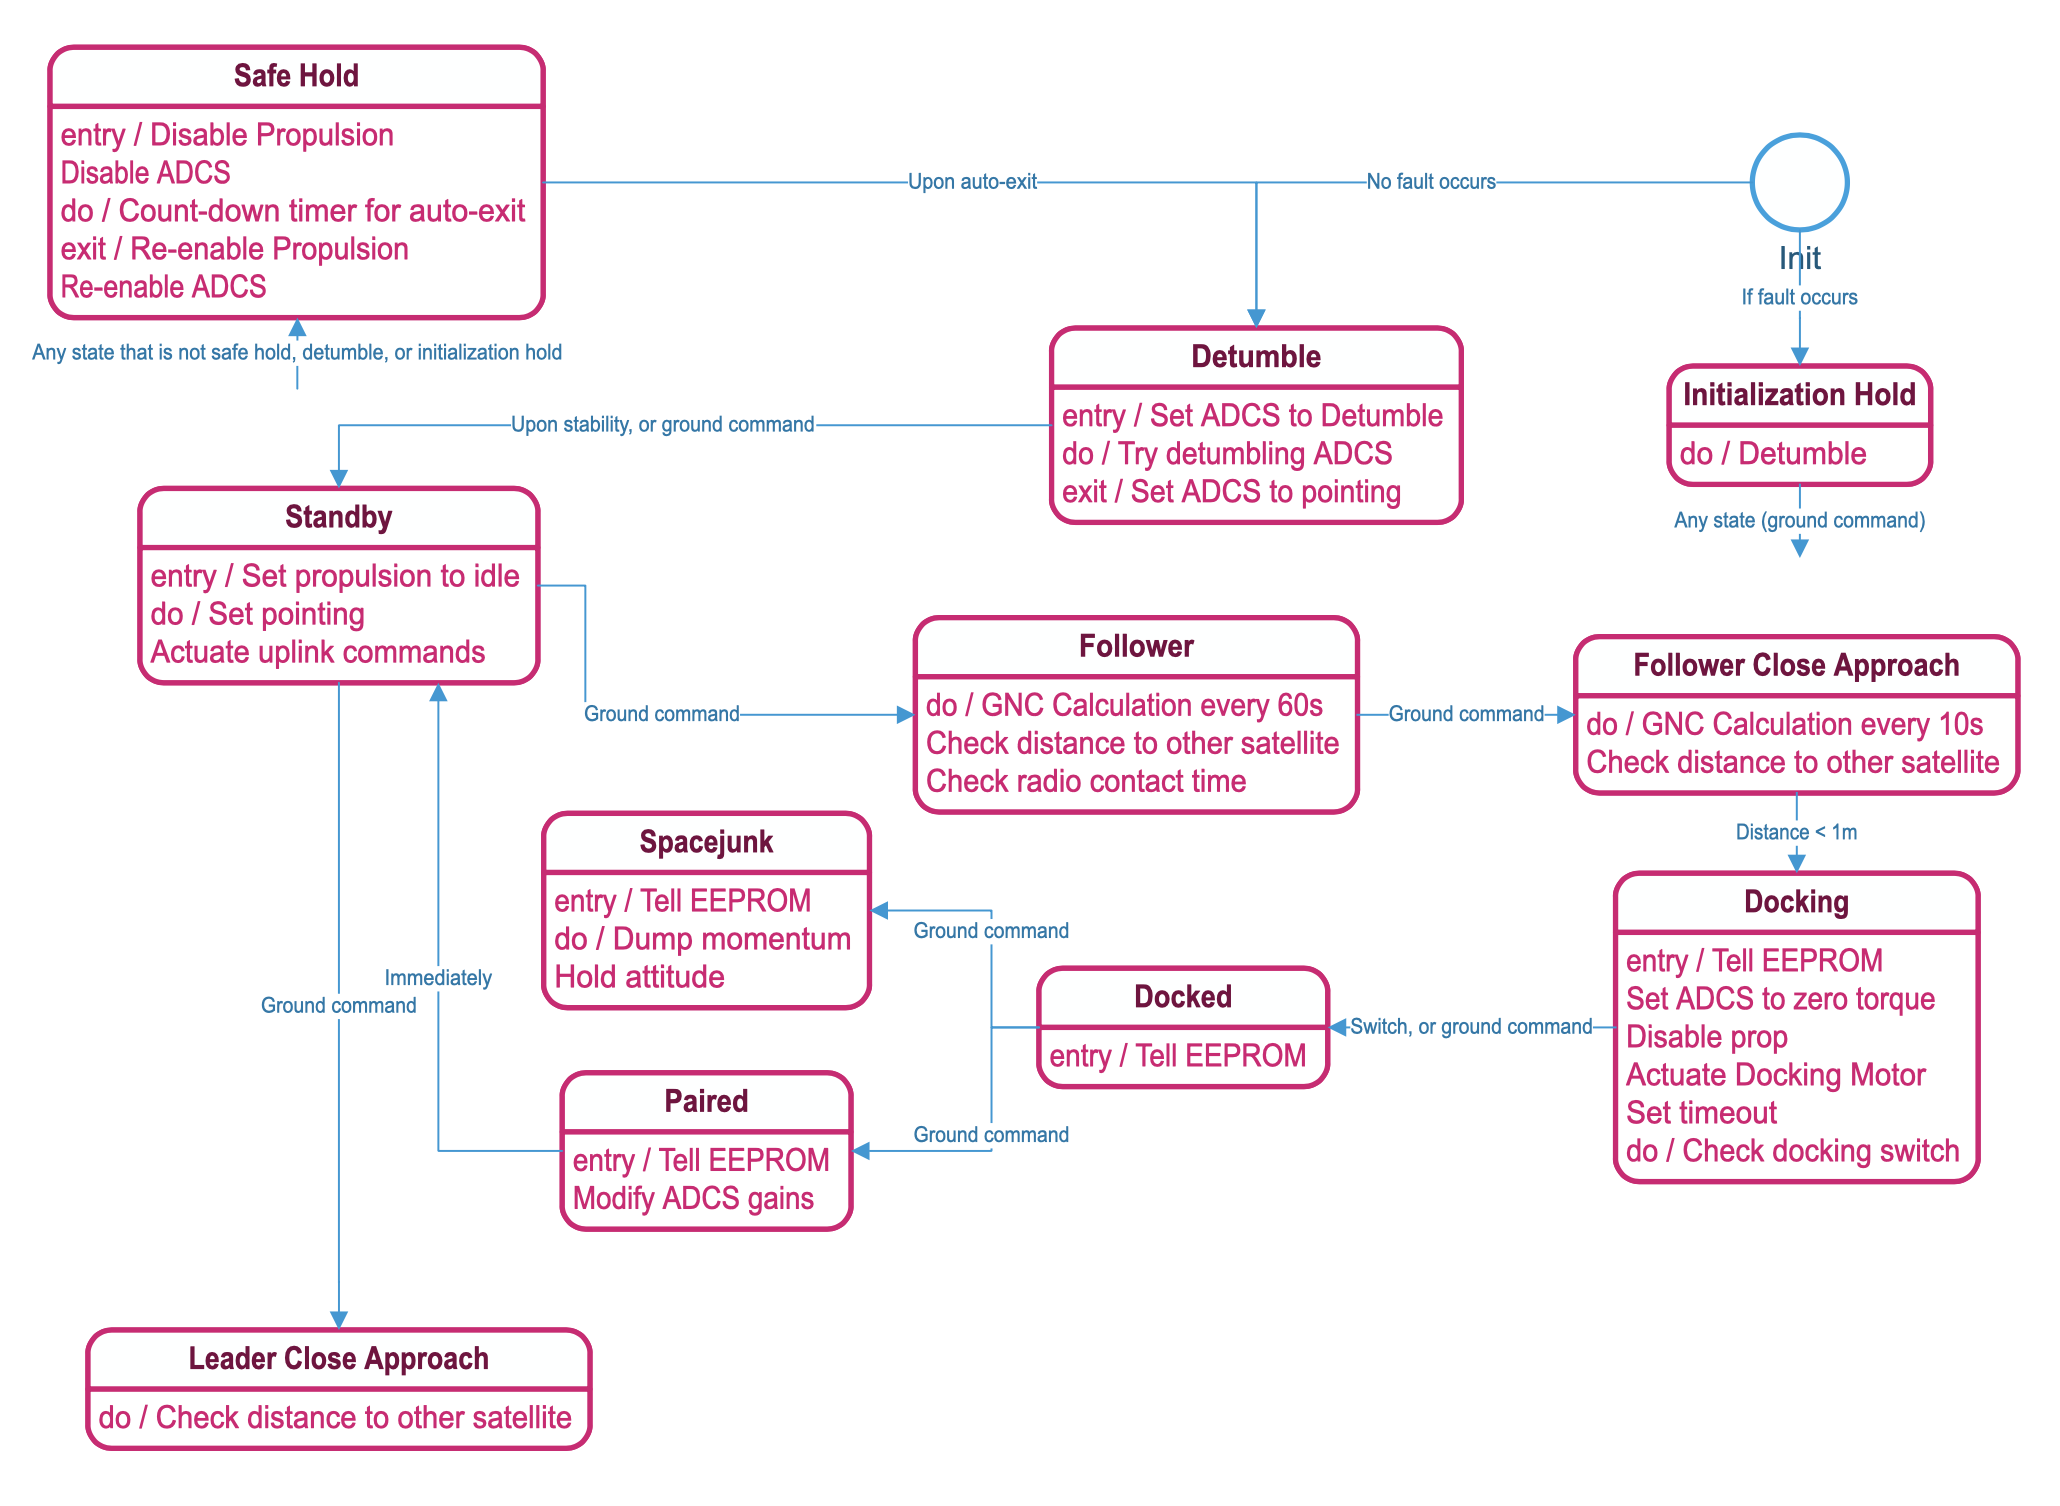
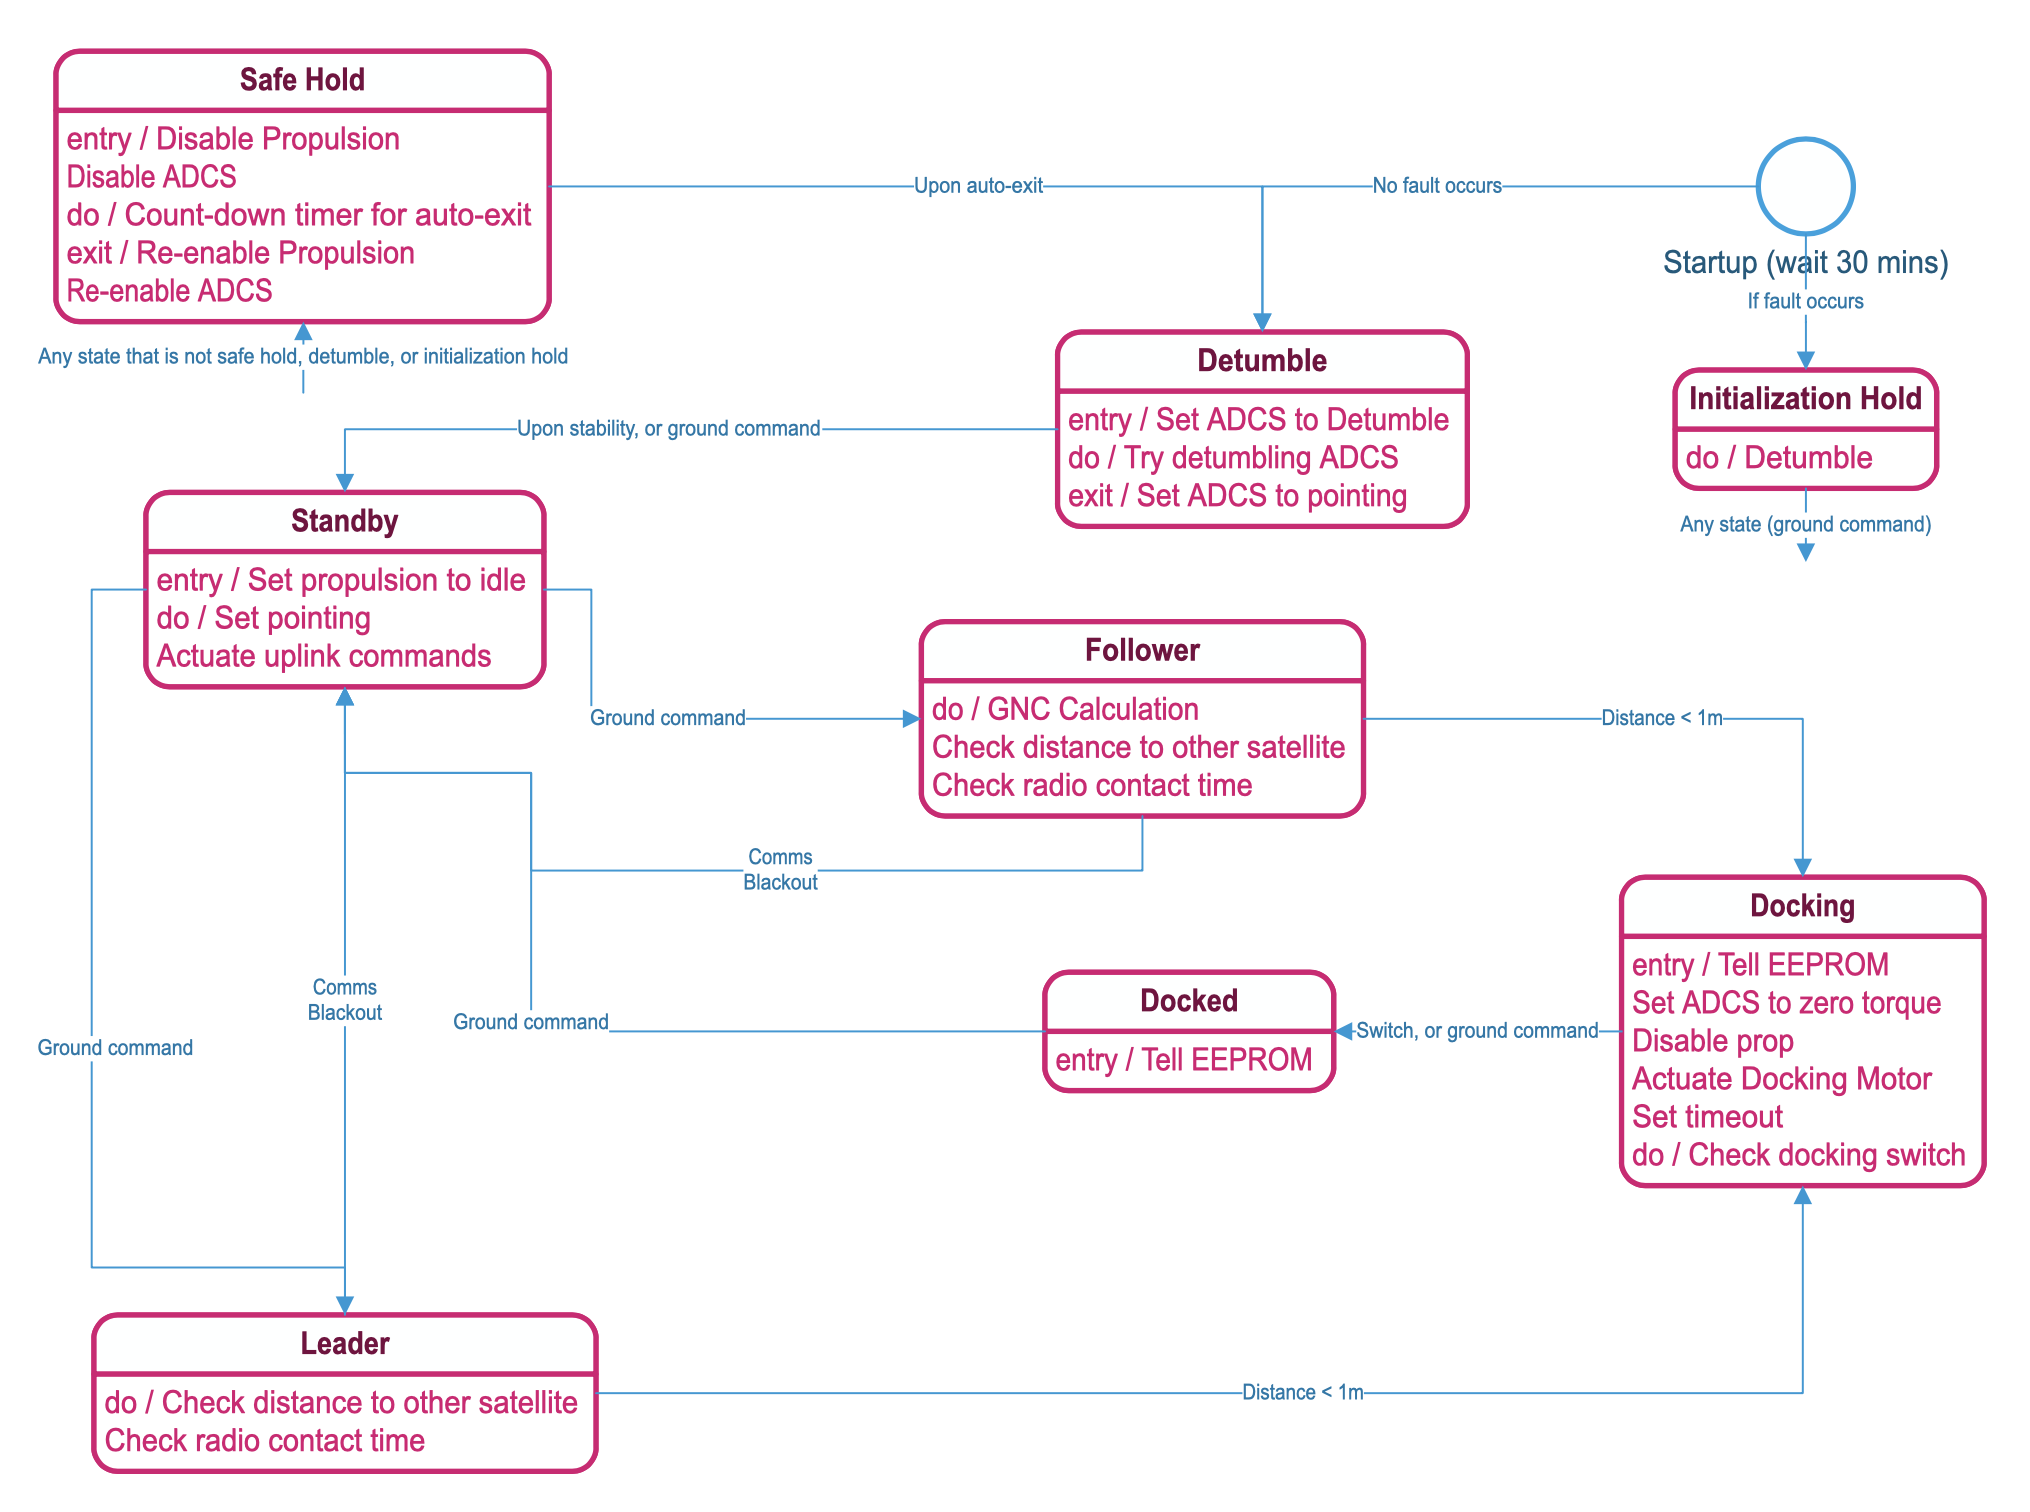
Update mission manager

diff --git a/source/flight_software/mission_manager.rst b/source/flight_software/mission_manager.rst
@@ -26,41 +26,33 @@ The PAN Mission Manager contains the following states:
 
   - **Power up**: This is the first state that occurs upon initialization of the first control cycle.
     During this mode, each subsystem checks the state of its hardware devices, persistent boot values
-    are pulled from EEPROM (see :doc:`subsystems/eeprom`), and the satellite determines the next mode.
-    The next mode is either "initialization hold" or "deployment".
+    are pulled from EEPROM (see :doc:`subsystems/eeprom`), and the satellite waits for the end of the
+    contractually-required 30-minute deployment period. It then determines the next mode, which is
+    either "initialization hold" or "detumble".
 
   - **Initialization hold**: If something is wrong with the spacecraft that would impede its ability
     to make communications with the ground, this mode tries to get the satellite to stop tumbling
     and generally conserve power to maximize the probability of communication. Upon successful
     communication, the ground is free to command the satellite into any mode.
 
-  - **Deployment**: During this state, the satellite waits until the end of its 30-minute post-deployment
-    hold period before moving to standby mode. This mode is contractually required by our launch provider to
-    prevent damage to the deployer pod or other spacecraft upon power-up of the satellite. No radio communications
-    or actuations are permitted during this state.
+  - **Detumble**: During this mode the satellite is reducing its angular rate so that the attitude of the
+    spacecraft is stabilized.
 
   - **Standby mode**: No GNC commands are made, and the PAN satellite is put into a power-maximizing
-    orientation. A ground command can move the satellite into any state from this state, but the nominal
-    choices are either the "follower" or the "leader close approach" state.
+    orientation by default. A ground command can move the satellite into any state from this state,
+    but the nominal choices are either the "follower" or the "leader" state.
 
 - The "PAN-specific" states, which are very specific to the PAN mission.
 
-  - **Follower**: During this state the satellite points in a direction to maximize its power generation,
-    but executes propulsion manuevers that match its orbit and phase with the leader and satellite. The
+  - **Follower**: During this state the satellite points itself in the direction of the other satellite,
+    and executes propulsion manuevers that match its orbit and phase with the leader and satellite. The
     leader's position is continuously provided via ground uplink to the follower.
 
     Once the ground software determines that the two satellites are fairly close together, it can send
-    an uplink command to move the satellite into "Follower Close Approach" state. This determination is
+    an uplink command to move the satellite into "Docking" state. This determination is
     dependent on the follower and leader satellites achieving CDGPS lock (see :doc:`subsystems/gps`).
 
-  - **Follower Close Approach**: The satellite executes terminal guidance to get the satellites within
-    one meter of each other. The follower satellite orients itself to point towards the leader satellite.
-    The satellite autonomously transitions into the "Docking" state after a separation of less than
-    1 meter is achieved.
-  
-  - **Leader Close Approach**: The leader satellite orients itself to point towards the follower satellite.
-    The satellite autonomously transitions into the "Docking" state after a separation of less than
-    1 meter is achieved.
+  - **Leader**: This state is the same as the follower state except that propulsion commands are disabled.
 
   - **Docking**: The satellites drift towards each other passively (no propulsive or attitude guidance
     is applied), with the magnetic docking ports on the ends of the satellites causing the satellites
@@ -71,22 +63,18 @@ The PAN Mission Manager contains the following states:
     command (i.e. the ground software notices that the satellites have been in the same position for
     a long time, and therefore must be docked.)
 
-  - **Spacejunk**: The satellite holds its attitude and dumps momentum into the Earth's magnetic field.
- 
-  - **Paired**: After one satellite is set to spacejunk state, the other satellite is held in this state.
-    The satellite does nothing with its pointing but modifies its controller gains so that
-    it can reliably steer the attitude of `both` satellites, and then it immediately switches to
-    "standby" mode so that the ground may operate the satellite. This is why the other state is called
-    "spacejunk", since in this operating configuration, the other satellite is fundamentally dead weight.
-
 We can think of the PAN-specific mission states as having two distinct phases: the "active mission" phase,
-consisting of the follower, standby, follower close approach, and leader close approach states;
-and the "post mission" phase, consisting of the docking, docked, paired, and spacejunk states. I'm making
-this distinction because the behavior of states in these two phases differs if the satellite powers down 
-unexpectedly due to software faults or power faults. Namely, if the satellite powers down during the active
-mission phase, then the entire mission is restarted from both satellites being in standby, but if power down
-happens during the post-mission phase, then the satellite restarts from its most recent mission state.
-This is achieved via saving the satellite state to EEPROM.
+consisting of the follower and leader states, and the "post mission" phase, consisting of the docking and
+docked states. I'm making this distinction because the behavior of states in these two phases differs if 
+the satellite powers down unexpectedly due to software faults or power faults. Namely, if the satellite
+powers down during the active mission phase, then the entire mission is restarted from both satellites
+being in standby, but if power down happens during the post-mission phase, then the satellite restarts
+from its most recent mission state. This is achieved via saving the satellite state to EEPROM.
+
+Setting Subsystem Behavior
+==========================
+The mission manager sets states and modes of the spacecraft subsystems to achieve its desired behavior.
+See :doc:`states_and_modes` to understand the difference between states and modes.
 
 Fault Management
 ================

diff --git a/source/flight_software/states_and_modes.rst b/source/flight_software/states_and_modes.rst
@@ -1,0 +1,10 @@
+================
+States and Modes
+================
+
+The propulsion and radio subsystems of the spacecraft are state machines that move autonomously upon each control cycle.
+Since the mission manager wants to assert these subsystems "ON" for some high-level spacecraft states and not others, we
+can't just command these subsystem state machines into a particular state or the state machine will get stuck there. Instead,
+we use the concept of a "mode" as an on/off switch for the autonomous operation of a state machine. If the mode of a state
+machine is "disabled", then the state machine's transitions are shut off and it remains in the last state it entered. If the
+mode of a state machine is "active", then it may autonomously step through state machine transitions.

diff --git a/source/flight_software/subsystems/quake.rst b/source/flight_software/subsystems/quake.rst
@@ -4,4 +4,3 @@ The Radio Manager
 
 The Quake Manager controls the satellite's radio and is responsible for managing
 the link layer of PAN's communications protocols (see :doc:`telemetry`).
-

diff --git a/source/flight_software/index.rst b/source/flight_software/index.rst
@@ -31,4 +31,5 @@ is important for flight software developers.
    desktop_operation
    serializer
    mission_manager
+   states_and_modes
    subsystems/index
